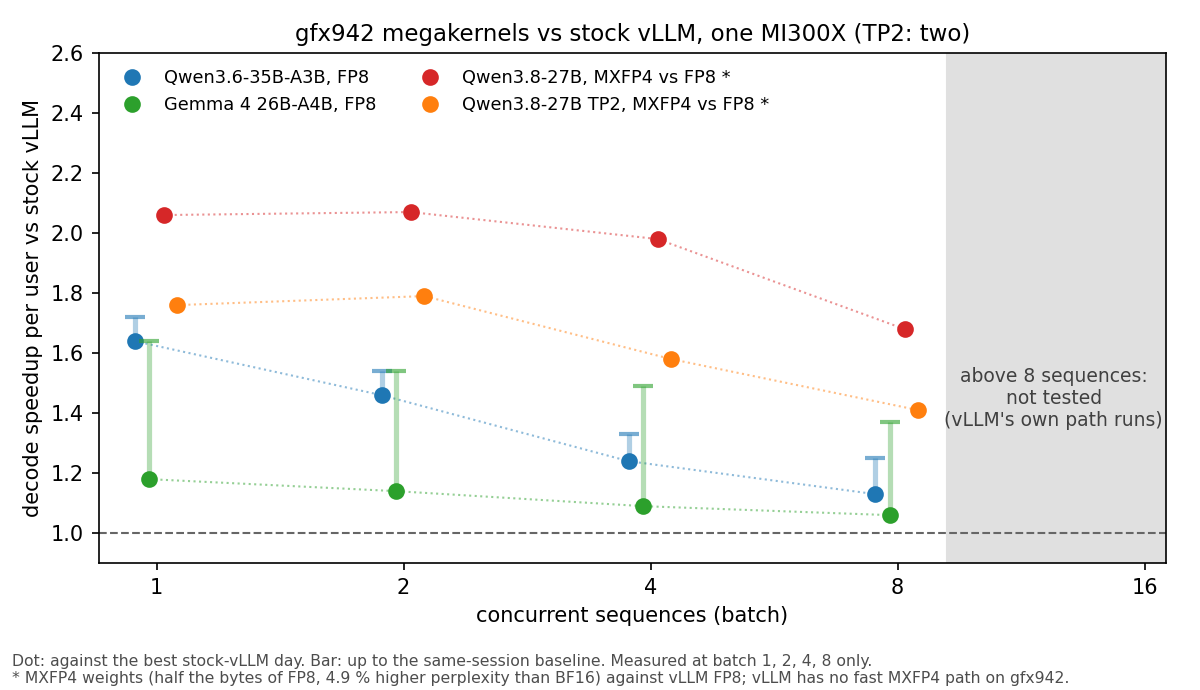
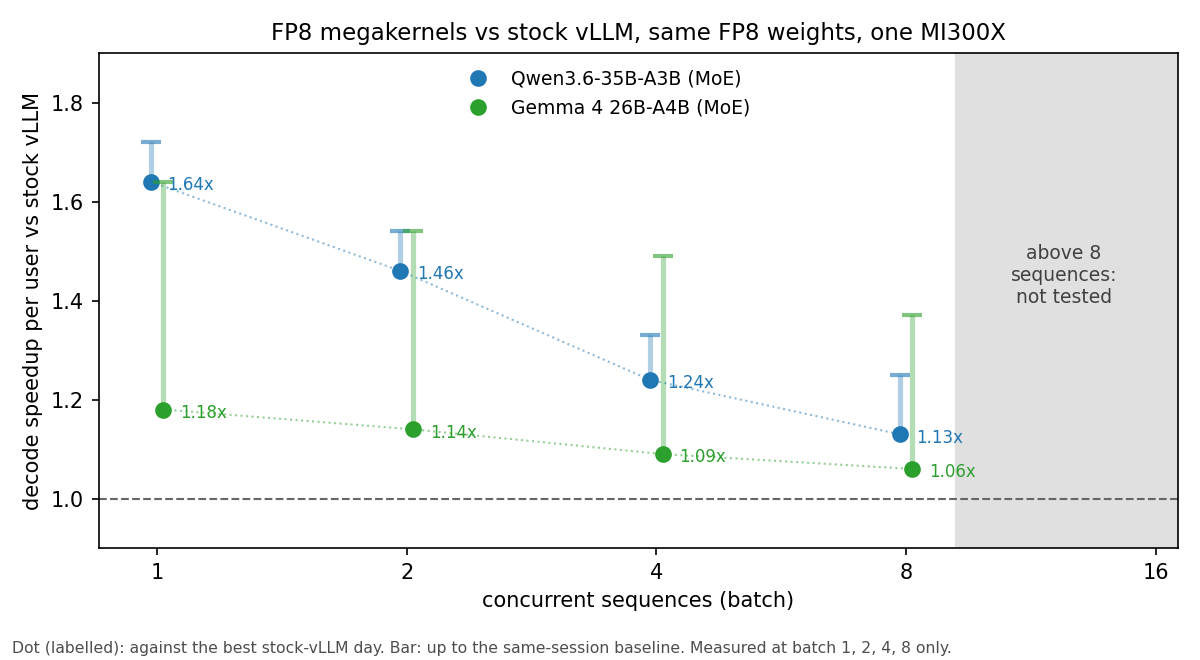
docs(report): FP8-only main comparison, method section, Qwen3.8 supplementary

diff --git a/docs/report/plot_speedup.py b/docs/report/plot_speedup.py
@@ -1,14 +1,13 @@
-"""Speedup of each gfx942 megakernel over stock vLLM on the same MI300X, per batch size.
+"""Speedup of the FP8 gfx942 megakernels over stock vLLM on the same FP8 weights and MI300X.
 
-Sources (time per output token, one MI300X banff-cyxtera-s70-4, ctx 512):
-- Qwen3.6-35B-A3B FP8: qwen3.6-35b-a3b-gfx942/README.md "Results" (low: vs vLLM+AITER of
-  2026-10-27; high: same session 2026-10-29, job 68207371).
-- Gemma 4 26B-A4B FP8: gemma4-26b-a4b-gfx942/README.md "Results" (low: vs vLLM of 2026-10-28;
-  high: same job 2026-10-29, 68207195).
-- Qwen3.8-27B MXFP4 TP1: qwen3.8-27b-gfx942/README.md "Results" (vs vLLM 0.29.1 FP8+AITER,
-  2026-10-22).
-- Qwen3.8-27B MXFP4 TP2: qwen3.8-27b-gfx942/README.md "Tensor parallel 2" (vs vLLM TP2
-  FP8+AITER, 2026-10-28).
+Only like-for-like comparisons (same checkpoint on both sides). Qwen3.8 (MXFP4) is in the
+report's supplementary section, not here.
+
+Sources (time per output token, one MI300X banff-cyxtera-s70-4, 512-token prompts):
+- Qwen3.6-35B-A3B FP8: qwen3.6-35b-a3b-gfx942/README.md "Results" (dot: vs vLLM FP8+AITER of
+  2026-10-27; bar top: same session 2026-10-29, job 68207371).
+- Gemma 4 26B-A4B FP8: gemma4-26b-a4b-gfx942/README.md "Results" (dot: vs vLLM FP8 of
+  2026-10-28; bar top: same job 2026-10-29, 68207195).
 """
 import matplotlib
 
@@ -17,36 +16,35 @@ import matplotlib.pyplot as plt
 
 B = [1, 2, 4, 8]
 SERIES = [
-    # label, low (conservative), high (same session) or None, color, note
-    ("Qwen3.6-35B-A3B, FP8", [1.64, 1.46, 1.24, 1.13], [1.72, 1.54, 1.33, 1.25], "tab:blue"),
-    ("Gemma 4 26B-A4B, FP8", [1.18, 1.14, 1.09, 1.06], [1.64, 1.54, 1.49, 1.37], "tab:green"),
-    ("Qwen3.8-27B, MXFP4 vs FP8 *", [2.06, 2.07, 1.98, 1.68], None, "tab:red"),
-    ("Qwen3.8-27B TP2, MXFP4 vs FP8 *", [1.76, 1.79, 1.58, 1.41], None, "tab:orange"),
+    # label, dot (best stock-vLLM day), bar top (same-session baseline), color
+    ("Qwen3.6-35B-A3B (MoE)", [1.64, 1.46, 1.24, 1.13], [1.72, 1.54, 1.33, 1.25], "tab:blue"),
+    ("Gemma 4 26B-A4B (MoE)", [1.18, 1.14, 1.09, 1.06], [1.64, 1.54, 1.49, 1.37], "tab:green"),
 ]
 
-fig, ax = plt.subplots(figsize=(8, 4.6), dpi=150)
+fig, ax = plt.subplots(figsize=(8, 4.4), dpi=150)
 for i, (label, low, high, color) in enumerate(SERIES):
-    x = [b * (1 + 0.04 * (i - 1.5)) for b in B]  # small offset so points do not overlap
+    x = [b * (1 + 0.035 * (i - 0.5)) for b in B]  # small offset so points do not overlap
     ax.plot(x, low, "o", color=color, label=label, ms=7)
     ax.plot(x, low, ":", color=color, lw=1, alpha=0.5)
-    if high:
-        ax.vlines(x, low, high, color=color, lw=2.5, alpha=0.35)
-        ax.plot(x, high, "_", color=color, ms=10, mew=2, alpha=0.6)
+    ax.vlines(x, low, high, color=color, lw=2.5, alpha=0.35)
+    ax.plot(x, high, "_", color=color, ms=10, mew=2, alpha=0.6)
+    for xi, yi in zip(x, low):
+        ax.annotate(f"{yi:.2f}x", (xi, yi), textcoords="offset points", xytext=(8, -4), fontsize=8,
+                    color=color)
 ax.axvspan(9.2, 17, color="0.88")
-ax.text(12.4, 1.45, "above 8 sequences:\nnot tested\n(vLLM's own path runs)", ha="center",
+ax.text(12.4, 1.45, "above 8\nsequences:\nnot tested", ha="center",
         va="center", fontsize=9, color="0.25")
 ax.axhline(1.0, color="0.4", lw=1, ls="--")
 ax.set_xscale("log", base=2)
 ax.set_xticks([1, 2, 4, 8, 16])
 ax.set_xticklabels(["1", "2", "4", "8", "16"])
 ax.set_xlim(0.85, 17)
-ax.set_ylim(0.9, 2.6)
+ax.set_ylim(0.9, 1.9)
 ax.set_xlabel("concurrent sequences (batch)")
 ax.set_ylabel("decode speedup per user vs stock vLLM")
-ax.set_title("gfx942 megakernels vs stock vLLM, one MI300X (TP2: two)", fontsize=11)
-ax.legend(fontsize=8.5, loc="upper left", ncol=2, frameon=False)
-fig.text(0.01, 0.01, "Dot: against the best stock-vLLM day. Bar: up to the same-session baseline. Measured at batch 1, 2, 4, 8 only.\n"
-         "* MXFP4 weights (half the bytes of FP8, 4.9 % higher perplexity than BF16) against vLLM FP8; vLLM has no fast MXFP4 path on gfx942.",
-         fontsize=7.5, color="0.3")
-fig.tight_layout(rect=(0, 0.06, 1, 1))
+ax.set_title("FP8 megakernels vs stock vLLM, same FP8 weights, one MI300X", fontsize=11)
+ax.legend(fontsize=9, loc="upper right", bbox_to_anchor=(0.62, 1.0), frameon=False)
+fig.text(0.01, 0.01, "Dot (labelled): against the best stock-vLLM day. Bar: up to the same-session baseline. "
+         "Measured at batch 1, 2, 4, 8 only.", fontsize=7.5, color="0.3")
+fig.tight_layout(rect=(0, 0.04, 1, 1))
 fig.savefig(__file__.replace("plot_speedup.py", "speedup.png"))

diff --git a/docs/report/megakernel-viability.md b/docs/report/megakernel-viability.md
@@ -8,14 +8,14 @@
 
 - I wrote decode megakernels for three current models on MI300X (gfx942). One persistent GPU launch runs
   every layer of a decode step, and the kernels run inside vLLM on my branches.
-- **With the same FP8 weights, each user gets tokens 1.2-1.6x faster at batch 1 and 1.06-1.13x faster at
-  batch 8** than with stock vLLM on the same GPU. Qwen3.8 reaches 2.1x, partly because it also uses the
-  smaller MXFP4 checkpoint, which costs accuracy.
-- **The relative speedup falls as the batch grows, and batches above 8 are untested.** The kernels are built for
-  batch 1-8, and vLLM's own path runs above that and during prefill. The kernel's own weight copy cuts KV-cache
-  space by 18-25 %.
+- **With the same FP8 weights on both sides, each user gets tokens 1.18-1.64x faster at batch 1 and
+  1.06-1.13x faster at batch 8** than with stock vLLM on the same GPU.
+- **The relative speedup falls as the batch grows, and batches above 8 are untested.** The kernels' own weight
+  copy also cuts KV-cache space by 18-25 %.
 - **Cost:** a new kernel for each model. The vLLM integration builds on vLLM PR
   [#61311](https://github.com/vllm-project/vllm/pull/61311), which is not merged yet.
+- The third model, Qwen3.8-27B, uses MXFP4 weights, which have no like-for-like stock baseline on gfx942. Its
+  results are in the [supplementary comparison](#supplementary-qwen38-27b-mxfp4).
 
 ## What a megakernel changes
 
@@ -25,38 +25,23 @@ of the 304 compute units for the whole step. It streams every weight once and pa
 next through grid barriers inside the launch. AMD's ATOM and aitermk megakernels target MI355X. vLLM main already
 runs a DeepSeek-V4.1 decode megakernel on MI300X (TP4); #61311 moves it onto shared hooks that my kernels plug into.
 
-## Results
+## Results: same weights on both sides
 
-![Speedup per batch size](https://raw.githubusercontent.com/SamuelReeder/megakernels/8ff40d6800554a2e220e1d525b7bace45db7d0e9/docs/report/speedup.png)
+![Speedup per batch size](IMG_SPEEDUP)
 
-| Model | Weights | Batch 1 per user | Speedup vs stock vLLM, batch 1 → 8 | In vLLM, kernel on, batch 1 |
+| Model | Weights | Batch 1, per user | Speedup vs stock vLLM, batch 1 / 2 / 4 / 8 | In vLLM, kernel on, batch 1 |
 |---|---|---|---|---|
-| [Qwen3.6-35B-A3B](https://github.com/SamuelReeder/megakernels/blob/8ff40d6800554a2e220e1d525b7bace45db7d0e9/qwen3.6-35b-a3b-gfx942/README.md) (MoE) | FP8 | 3.11 ms, 322 tok/s | **1.64x → 1.13x** (same-day baseline: 1.72x → 1.25x) | 2.9-3.2 ms |
-| [Gemma 4 26B-A4B](https://github.com/SamuelReeder/megakernels/blob/8ff40d6800554a2e220e1d525b7bace45db7d0e9/gemma4-26b-a4b-gfx942/README.md) (MoE) | FP8 | 3.74 ms, 267 tok/s | **1.18x → 1.06x** (same-day baseline: 1.64x → 1.37x) | 3.67 ms |
-| [Qwen3.8-27B](https://github.com/SamuelReeder/megakernels/blob/8ff40d6800554a2e220e1d525b7bace45db7d0e9/qwen3.8-27b-gfx942/README.md) (dense) | MXFP4 * | 7.56 ms, 132 tok/s | **2.06x → 1.68x** | 7.8 ms |
-| [Qwen3.8-27B, 2 GPUs (TP2)](https://github.com/SamuelReeder/megakernels/blob/8ff40d6800554a2e220e1d525b7bace45db7d0e9/qwen3.8-27b-gfx942/README.md#tensor-parallel-2-two-mi300x-over-xgmi) | MXFP4 * | 5.59 ms, 179 tok/s | **1.76x → 1.41x** vs vLLM TP2 | 5.58 ms |
+| [Qwen3.6-35B-A3B](LINK_Q6) (MoE) | FP8 | 3.11 ms, 322 tok/s | **1.64 / 1.46 / 1.24 / 1.13x** (same session: 1.72 / 1.54 / 1.33 / 1.25x) | 2.9-3.2 ms |
+| [Gemma 4 26B-A4B](LINK_G) (MoE) | FP8 | 3.74 ms, 267 tok/s | **1.18 / 1.14 / 1.09 / 1.06x** (same session: 1.64 / 1.54 / 1.49 / 1.37x) | 3.67 ms |
 
-**How this was measured.**
-- **Setup:** one MI300X (two for TP2), 512-token prompts, time per output token, October 22-29.
-- **Baseline:** stock vLLM (0.29.1 or 0.32 nightly) on the FP8 checkpoint, with AITER where it works.
-  The BF16 checkpoint is up to 5 % faster than FP8 at batch 1 for Qwen3.6 and TP2.
-- **Harnesses:** the kernel was timed standalone, and vLLM through its own benchmark, which includes its
-  scheduler. The last column is the kernel running inside vLLM.
-- **Which day:** the bold ratio uses the best day for stock vLLM. On other days it ran 4-38 % slower on the
-  same node, for reasons I did not find.
-
-\* Qwen3.8 runs MXFP4 against vLLM's FP8, because vLLM has no fast MXFP4 path on gfx942. MXFP4 reads half the
-bytes of FP8, so part of the gain is the format. The MXFP4 checkpoint scores 4.9 % higher perplexity than BF16
-(1.658 against 1.581).
+Bold ratios use the fastest stock-vLLM day I measured; the [Method](#method) section explains the two baselines.
 
 **Correctness.**
 - **Accuracy:** perplexity is no more than 1 % above a reference with the same weights (Gemma's is lower).
-  Qwen3.6, for example, scores 1.589, against 1.585 for the FP8 reference and 1.584 for BF16.
+  Qwen3.6 scores 1.589, against 1.585 for the FP8 reference and 1.584 for BF16.
 - **Inside vLLM:** greedy output follows vLLM's own path until the first near-tied token. I have not run a
   task-level evaluation.
 - **Determinism:** every kernel is bitwise deterministic, and a request gets the same bits alone or in a batch.
-  Earlier versions of each kernel repeated on a second day and on an MI325X; the current Qwen3.6 and Gemma
-  kernels have passed their checks on one node only.
 
 ## How the gain changes with batch size
 
@@ -76,18 +61,62 @@ For every model, the relative speedup is lower at batch 8 than at batch 1. There
 - Mixed traffic. Any step that includes a new prompt (prefill) also runs on vLLM's path, so under real
   traffic the gain is smaller than in the table.
 
-**Other effects:** time to first token does not change. KV-cache capacity is 18-25 % lower (Qwen3.6, Gemma),
-because the kernel keeps its own copy of the weights. This lowers the possible peak batch and context length.
+**Other effects:**
+- Time to first token does not change.
+- KV-cache capacity is 18-25 % lower (Qwen3.6, Gemma), because the kernel keeps its own copy of the weights.
+  This lowers the possible peak batch and context length.
 
 **Headroom.** These kernels are not at the hardware limit. Barriers and hand-offs take about 40 % of a Qwen3.8
 step, and the weight stream reaches 3.3-3.7 TB/s of the GPU's 5.3 TB/s.
+
+## Method
+
+**How each kernel was built.**
+1. **Reference:** I wrote a PyTorch reference of one decode step and checked it against HF transformers.
+   Qwen3.6 matches at logits cosine 1.000000 and 100 % top-1; Gemma at cosine 0.99942 and 99.9 % top-1.
+2. **Kernel:** I wrote the kernel in FlyDSL as one persistent launch: one workgroup per compute unit, with
+   stages separated by grid barriers.
+3. **Gates:** every change had to pass four checks before I kept it:
+   - each layer's output against the reference at batch 1, 2, 4 and 8;
+   - three runs bitwise equal;
+   - a row gives the same bits alone or in a batch;
+   - teacher-forced perplexity on five text passages.
+
+   A change that failed a check was reverted. Each kept or rejected optimization is in the model's
+   `docs/DESIGN.md` with its measurement.
+4. **vLLM integration:** a #61311 DecodeSpec, checked by greedy output with the kernel on and off.
+
+Most of the coding was agent-driven, and I reviewed each milestone before the next one started.
+
+**What was held equal on both sides.**
+
+| Variable | Setting |
+|---|---|
+| Hardware | The same MI300X node (`banff-cyxtera-s70-4`), whole GPU (SPX mode), one GPU (TP1) |
+| Weights | The same FP8 checkpoint |
+| Workload | 512-token prompts, 256 output tokens, batch 1, 2, 4 and 8 |
+| Metric | Time per output token (TPOT) in decode; prefill excluded |
+| Kernel runs | Median of 3 runs |
+| Node load | GPU busy % of all 8 GPUs sampled before and after each run |
+
+**Confounds, and how I handled them.**
+
+| Confound | Effect | Handling |
+|---|---|---|
+| Stock vLLM's speed drifts between days | 4-38 % slower on some days, cause not found | Bold ratios use the fastest vLLM day; the same-session ratio is shown beside it |
+| Different harnesses | Qwen3.6's baseline is `vllm bench serve`, which adds HTTP and scheduler time; the kernel was timed standalone | The "in vLLM" column runs the kernel inside vLLM. Gemma's baseline is offline vLLM on the same real-text prompts as the kernel. |
+| Prompt content | Qwen3.6 runs used random tokens on both sides; Gemma used real text. MoE routing, and so the expert reads, depends on the text. | Each model compares like with like; ratios across models are not directly comparable |
+| Other users on the node | One run had a neighbour GPU at 100 % for part of the time | Repeat attempts agreed within 1.4 % (kernel) and 3 % (vLLM); Gemma's final run was on an idle node |
+| Choice of baseline checkpoint | For Qwen3.6, vLLM on the BF16 checkpoint is 3.5 % faster than on FP8 at batch 1 | Kept FP8 so both sides read the same weights. Against BF16, Qwen3.6's batch-1 ratio is 1.58x. |
+| Fixed batch, no arrivals | Real traffic mixes prefill steps, which run on vLLM's path | Stated as not measured |
+| One GPU type | Headline numbers are MI300X only | Earlier kernel versions repeated on an MI325X and on a second day; the current Qwen3.6 and Gemma kernels were checked on one node |
 
 ## Tradeoffs to weigh
 
 1. **One kernel per model.**
    - Each model has about 2,000-2,400 lines of kernel code, plus a PyTorch reference and the vLLM integration.
-   - Qwen3.6 and Gemma took 1-2 days each, with agents, by adapting the earlier kernels. TP2 took
-     3 days. The shared parts now live in one common library.
+   - Qwen3.6 and Gemma took 1-2 days each by adapting the earlier kernels. Qwen3.8 TP2 took 3 days. The shared
+     parts now live in one common library.
    - New checkpoint formats or new vLLM cache layouts need kernel work.
 2. **Strict deployment needs.**
    - The kernel must have every compute unit to itself. A partitioned GPU, or other work on the same GPU,
@@ -102,8 +131,40 @@ step, and the weight stream reaches 3.3-3.7 TB/s of the GPU's 5.3 TB/s.
    - A hipDNN route for shipping precompiled kernels works end to end (same bits, speed within 0.8 %), but
      it waits on the draft [ROCm/rocm-libraries#14255](https://github.com/ROCm/rocm-libraries/pull/14255).
 
+## Supplementary: Qwen3.8-27B (MXFP4)
+
+**Why it is separate.** The [Qwen3.8 kernel](LINK_Q8) runs the MXFP4 checkpoint
+(`amd/Qwen3.8-27B-Quark-AWQ-MXFP4`). I did not build an FP8 version of it. Stock vLLM has no fair MXFP4
+baseline on gfx942, because the GPU has no native MXFP4: vLLM emulates it (`EmulationMxfp4LinearKernel`). Each
+available comparison is therefore biased:
+
+| Batch | Kernel, MXFP4 | vLLM FP8 + AITER (fastest stock option) | vLLM MXFP4, emulated (same weights) |
+|---:|---:|---:|---:|
+| 1 GPU, batch 1 | 7.56 ms | 15.59 ms (**2.06x**) | 43.03 ms (5.69x) |
+| 1 GPU, batch 8 | 10.26 ms | 17.21 ms (**1.68x**) | 44.69 ms (4.36x) |
+| 2 GPUs (TP2), batch 1 | 5.59 ms | 9.82 ms (**1.76x**) | 24.78 ms (4.20x, separate session) |
+| 2 GPUs (TP2), batch 8 | 7.91 ms | 11.15 ms (**1.41x**) | 25.80 ms (2.97x, separate session) |
+
+**How to read it.**
+- **Against FP8 (bold):** this is the most useful number for a deployment choice, but it overstates the kernel
+  alone. MXFP4 reads about half the weight bytes of FP8, and decode at small batch is bandwidth-bound. So part
+  of the gain is the format.
+- **Against emulated MXFP4:** the weights are the same, but this measures vLLM's slow fallback, not a real
+  option. It overstates the kernel much more.
+- **Quality cost:** the kernel on MXFP4 has 4.9 % higher perplexity than the BF16 model (1.658 against 1.581).
+  Most of that is the checkpoint: the MXFP4 reference scores 1.645, and the kernel's FP8 activations add 0.8 %.
+- **Harnesses:**
+  - 1 GPU: `vllm bench serve` 0.29.1, measured on 10-22 on the same node as the kernel.
+  - TP2: `vllm bench latency` 0.32 nightly, the engine-level time on both sides, measured on 10-28.
+  - TP2 emulated MXFP4: measured in an earlier session, when the kernel took 5.90 ms at batch 1 and 8.69 ms at
+    batch 8. Its ratios use those kernel times.
+- **What TP2 shows on its own:** splitting the kernel over two GPUs, with the all-reduce inside the kernel, is
+  23-28 % faster than one GPU. Both ranks hold bitwise-equal results at every step.
+
+A clean dense-model comparison would need an FP8 build of this kernel, which the shared library could support.
+
 ## Links
 
-- Per-model results, every run and log: [Qwen3.6](https://github.com/SamuelReeder/megakernels/blob/8ff40d6800554a2e220e1d525b7bace45db7d0e9/qwen3.6-35b-a3b-gfx942/README.md) · [Gemma 4](https://github.com/SamuelReeder/megakernels/blob/8ff40d6800554a2e220e1d525b7bace45db7d0e9/gemma4-26b-a4b-gfx942/README.md) · [Qwen3.8](https://github.com/SamuelReeder/megakernels/blob/8ff40d6800554a2e220e1d525b7bace45db7d0e9/qwen3.8-27b-gfx942/README.md) · [Qwen3.8 TP2 design](https://github.com/SamuelReeder/megakernels/blob/8ff40d6800554a2e220e1d525b7bace45db7d0e9/qwen3.8-27b-gfx942/docs/DESIGN-TP2.md)
-- hipDNN distribution route (design and results): [docs/hipdnn-route.md](https://github.com/SamuelReeder/megakernels/blob/8ff40d6800554a2e220e1d525b7bace45db7d0e9/docs/hipdnn-route.md)
-- Chart data and sources: [docs/report/plot_speedup.py](https://github.com/SamuelReeder/megakernels/blob/8ff40d6800554a2e220e1d525b7bace45db7d0e9/docs/report/plot_speedup.py)
+- Per-model results, every run and log: [Qwen3.6](LINK_Q6) · [Gemma 4](LINK_G) · [Qwen3.8](LINK_Q8) · [Qwen3.8 TP2 design](LINK_TP2D)
+- hipDNN distribution route (design and results): [docs/hipdnn-route.md](LINK_HIPDNN)
+- Chart data and sources: [docs/report/plot_speedup.py](LINK_PLOT)
